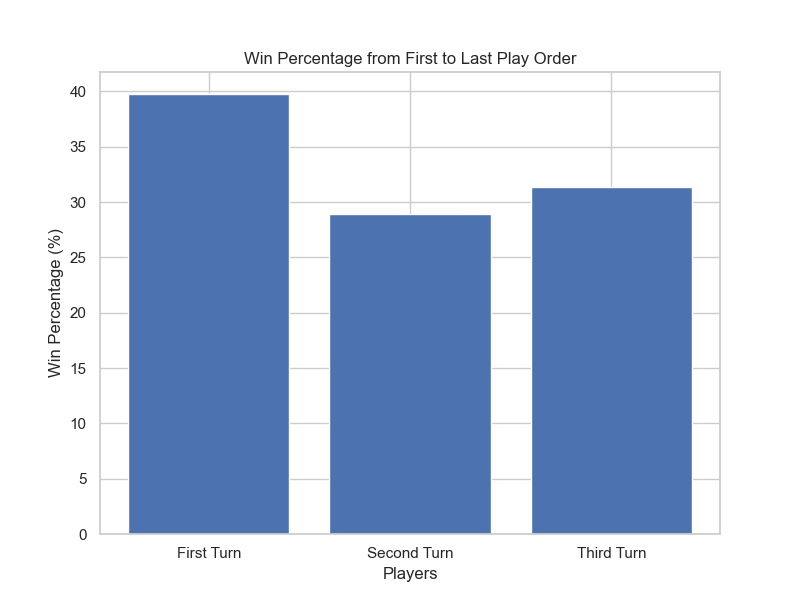
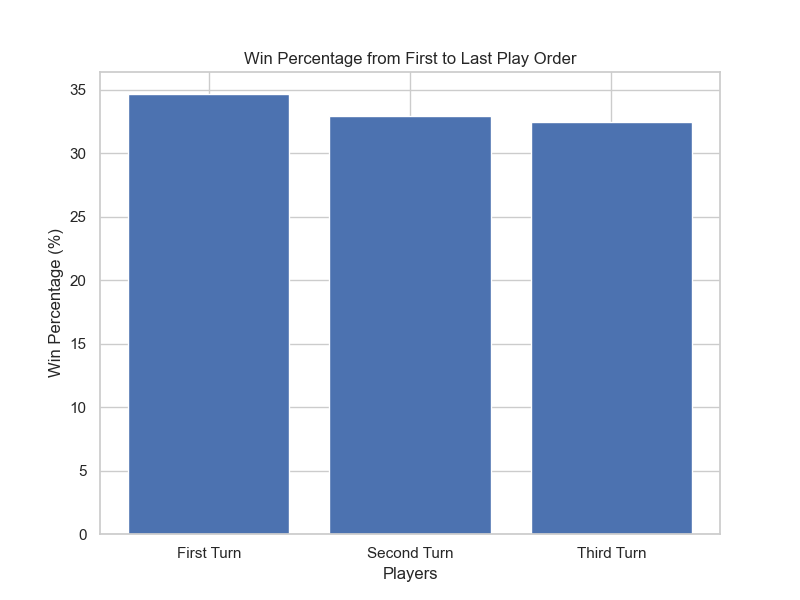
everything is working very well now

diff --git a/main.py b/main.py
@@ -14,7 +14,7 @@ from collections import defaultdict
 from dataclasses import dataclass
 from decimal import Decimal
 from functools import lru_cache
-from typing import Literal
+from typing import Any, Callable, Literal
 
 import matplotlib.pyplot as plt
 import numpy as np
@@ -311,6 +311,15 @@ def place_chip_randomly(
     return current_board, draw_pile_cards, hand_cards, selected_cell.coordinate
 
 
+def select_cell_based_on_score_function(
+    cells: list[SequenceBoardCell],
+    score_function: Callable[[SequenceBoardCell], Decimal],
+) -> SequenceBoardCell:
+    calced_scores = [(score_function(cell), cell) for cell in cells]
+    max_score = max({item[0] for item in calced_scores})
+    return random.choice([item[1] for item in calced_scores if item[0] == max_score])
+
+
 def place_chip_based_on_score(
     current_board: Board,
     draw_pile_cards: list[Card],
@@ -324,34 +333,34 @@ def place_chip_based_on_score(
         )
     )
 
-    best_empty_cell_offensive = sorted(
-        empty_cells, key=lambda x: x.chip_score[chip_color]
-    )[-1]
-    best_available_to_play_cell_offensive = sorted(
-        available_to_play_cells, key=lambda x: x.chip_score[chip_color]
-    )[-1]
-
-    best_empty_cell_defensive = sorted(
+    # selecting the best cells based on the different score functions
+    best_empty_cell_offensive = select_cell_based_on_score_function(
+        empty_cells, lambda x: x.chip_score[chip_color]
+    )
+    best_available_to_play_cell_offensive = select_cell_based_on_score_function(
+        available_to_play_cells, lambda x: x.chip_score[chip_color]
+    )
+    best_empty_cell_defensive = select_cell_based_on_score_function(
         empty_cells,
-        key=lambda x: max(
+        lambda x: max(
             score for chip, score in x.chip_score.items() if chip != chip_color
         ),
-    )[-1]
-    best_available_to_play_cell_defensive = sorted(
+    )
+    best_available_to_play_cell_defensive = select_cell_based_on_score_function(
         available_to_play_cells,
-        key=lambda x: max(
+        lambda x: max(
             score for chip, score in x.chip_score.items() if chip != chip_color
         ),
-    )[-1]
+    )
 
     best_opposing_cell = None
     if opposing_cells:
-        best_opposing_cell = sorted(
+        best_opposing_cell = select_cell_based_on_score_function(
             opposing_cells,
-            key=lambda x: max(
+            lambda x: max(
                 score for chip, score in x.chip_score.items() if chip != chip_color
             ),
-        )[-1]
+        )
 
     # given how jacks can be played, we need to check to see if there are any jacks
     # within the hand
@@ -633,7 +642,7 @@ if __name__ == "__main__":
         collected_statistics.append(row)
 
     # running the simulation of the data =====================================================
-    for _ in range(10_000):
+    for _ in range(20_000):
         # Setting up the game by creating the board, creating the draw deck, and dealing
         # to the players
         sequence_board = make_standard_sequence_board()
@@ -667,7 +676,7 @@ if __name__ == "__main__":
                 # we want to be able to track the wins by the defensive percent so
                 # that we are not correlating this with the order of play
                 try:
-                    if player.defensive_percent == -1 or round_of_play == 1:
+                    if player.defensive_percent == -1:
                         sequence_board, draw_deck, player.hand, played_coordinate = (
                             place_chip_randomly(
                                 current_board=sequence_board,
@@ -848,11 +857,11 @@ if __name__ == "__main__":
     win_percentages = [(count / total_wins) * 100 for count in win_counts]
     x_labels = ["Random Play" if x == -1 else f"{x}%" for x in defensive_percents]
     plt.figure(figsize=(10, 6))
-    plt.plot(x_labels, win_percentages, marker='o', linestyle='-', color='b')
+    plt.plot(x_labels, win_percentages, marker="o", linestyle="-", color="b")
     plt.xlabel("Defensive Play Percentage")
     plt.ylabel("Percentage of Wins (%)")
     plt.title("Percentage of Wins Based on Defensive Play Style")
-    plt.grid(axis='y')
+    plt.grid(axis="y")
     plt.xticks(rotation=45)
     output_image_path = "plots/defensive_play_style_wins_line_chart.png"
     plt.savefig(output_image_path)
